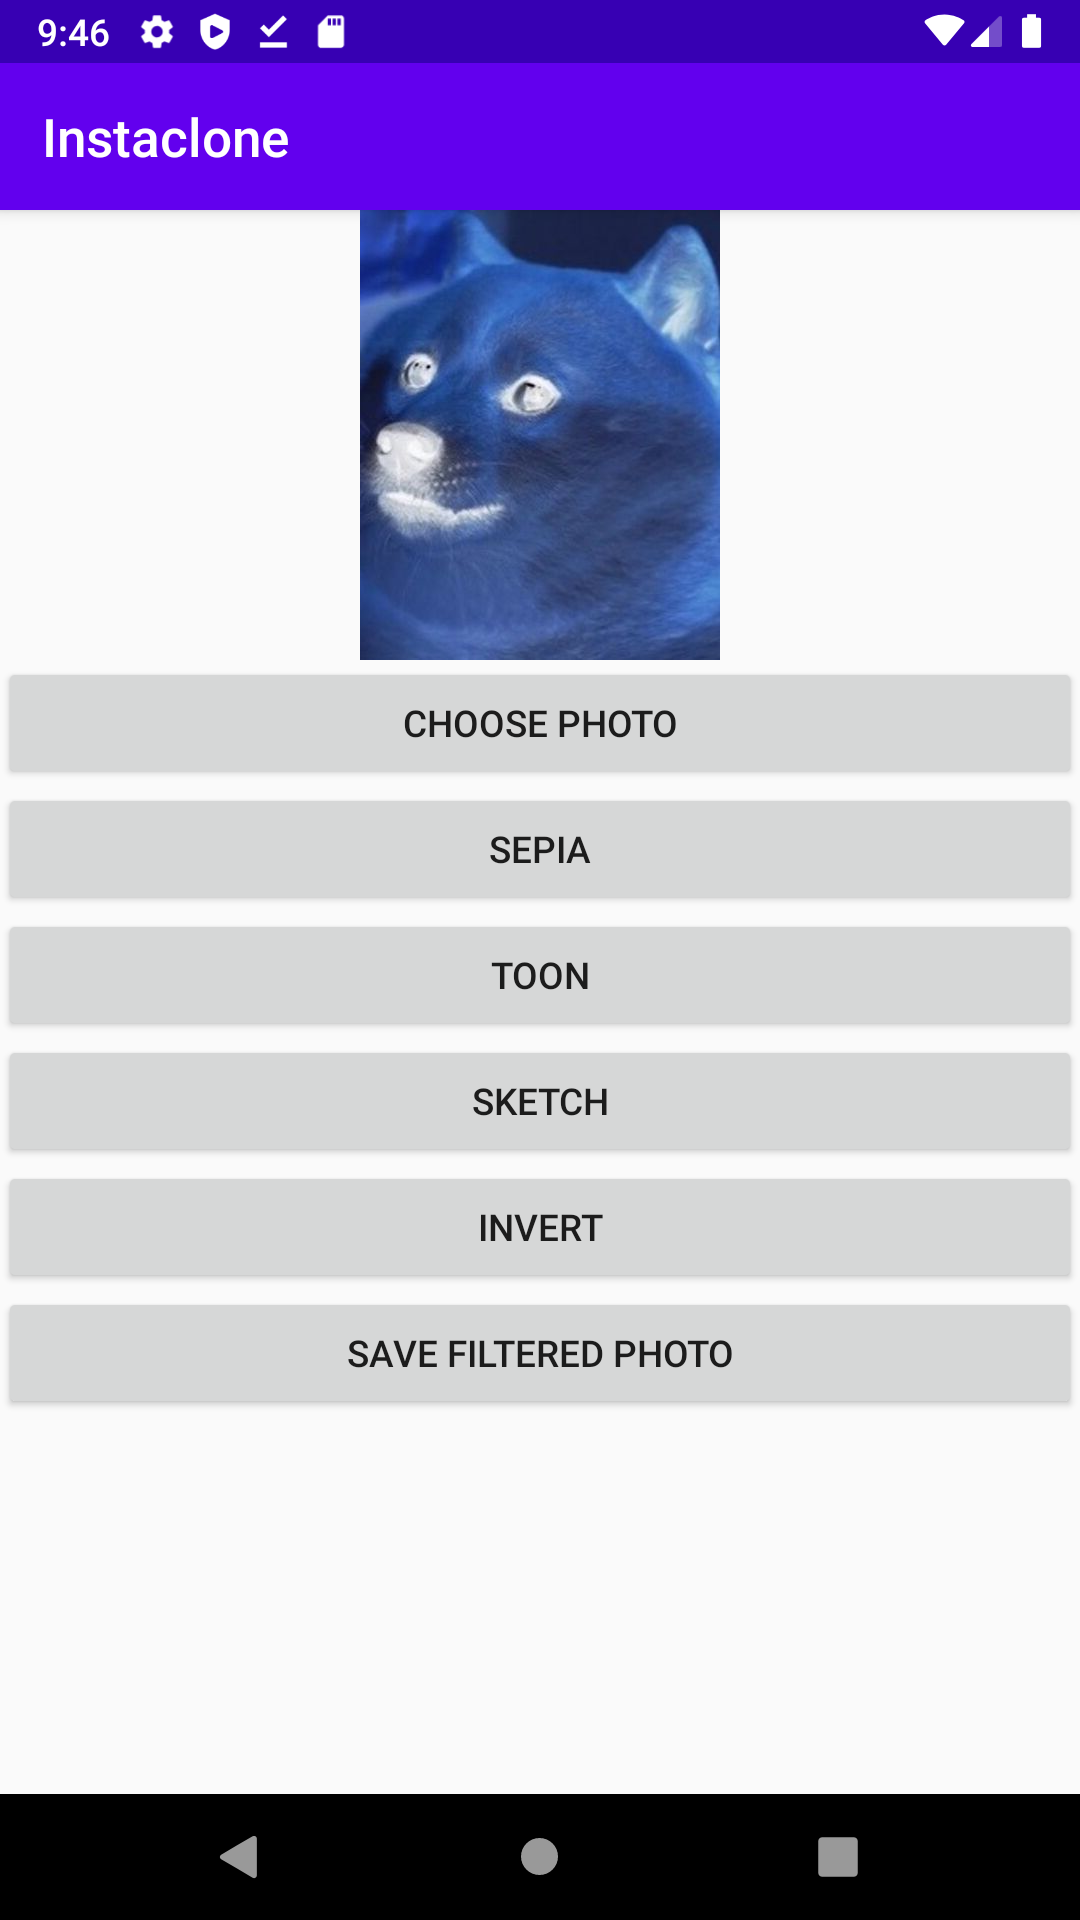
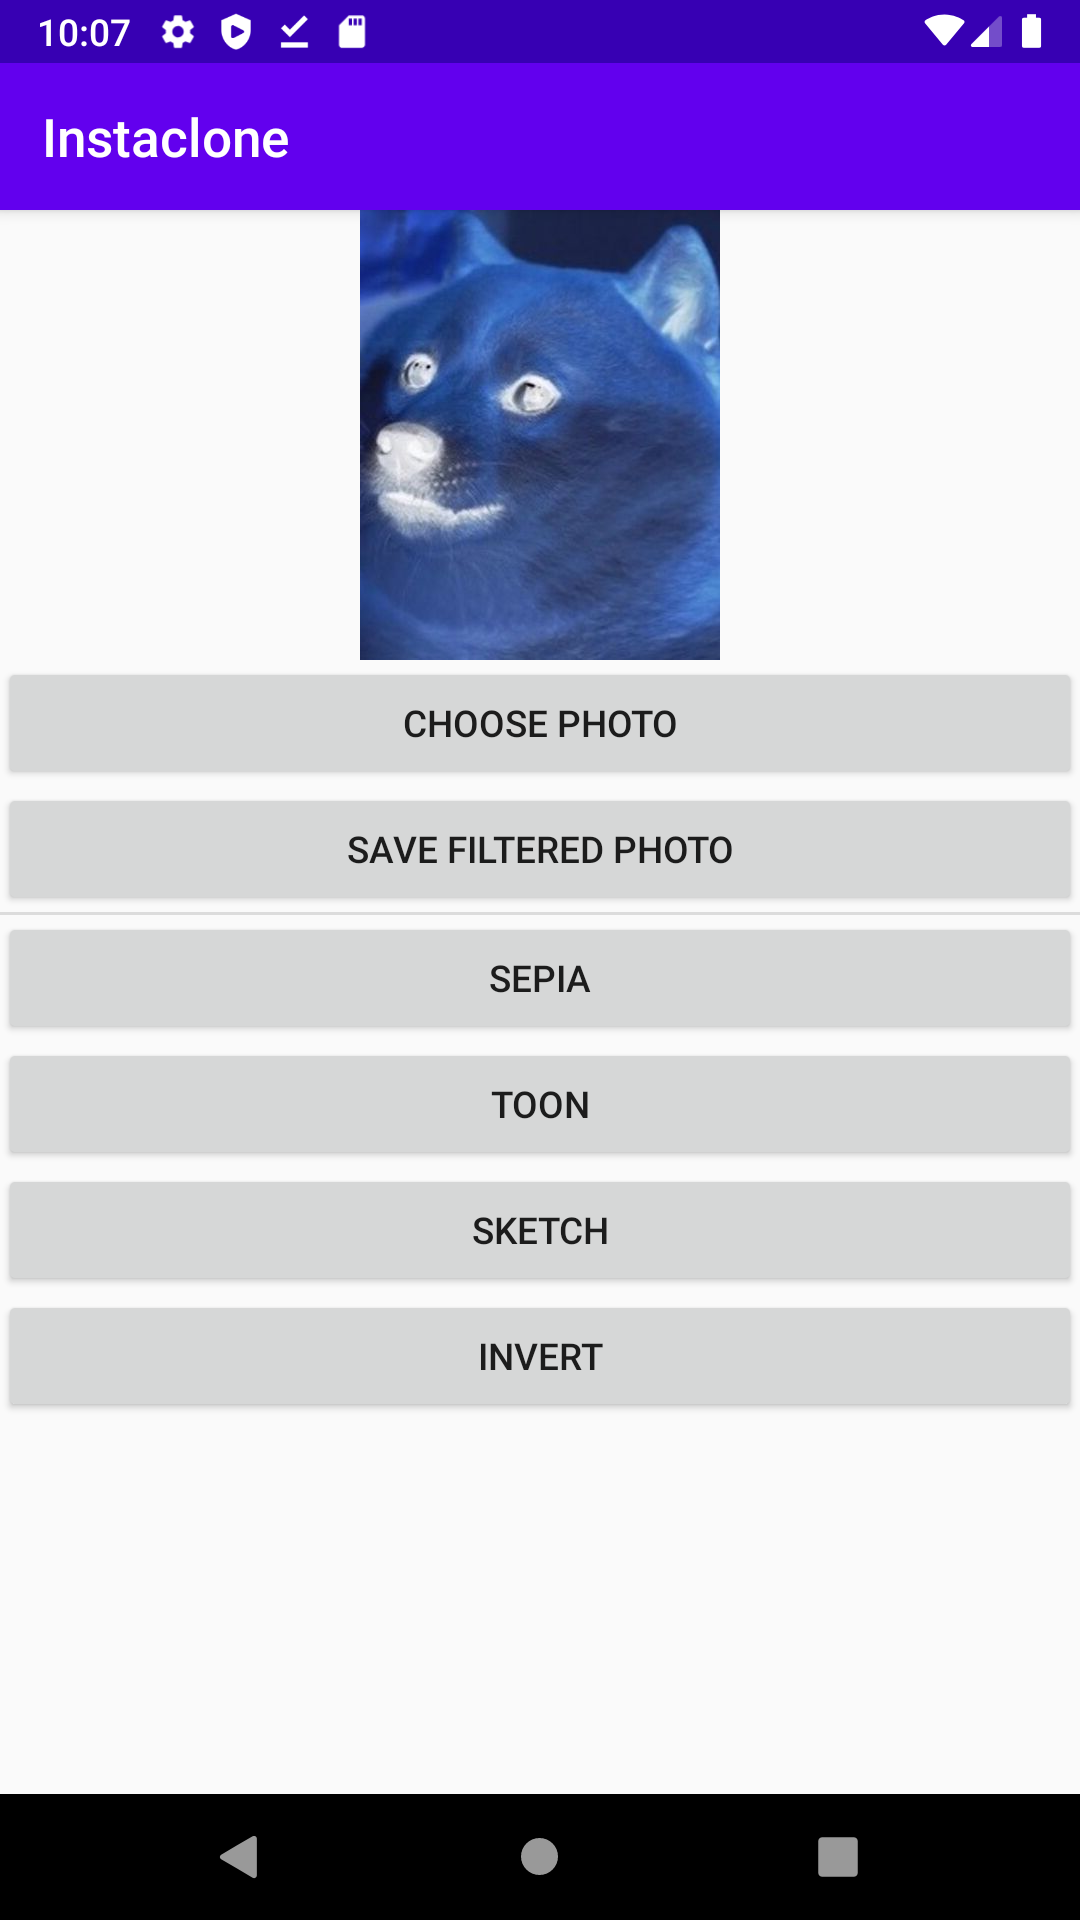
Change to group filter buttons

diff --git a/app/src/main/java/com/example/instaclone/MainActivity.java b/app/src/main/java/com/example/instaclone/MainActivity.java
@@ -1,9 +1,5 @@
 package com.example.instaclone;
 
-import androidx.annotation.Nullable;
-import androidx.appcompat.app.AppCompatActivity;
-import androidx.core.app.ActivityCompat;
-
 import android.Manifest;
 import android.app.Activity;
 import android.content.ContentValues;
@@ -11,7 +7,6 @@ import android.content.Intent;
 import android.graphics.Bitmap;
 import android.graphics.BitmapFactory;
 import android.graphics.drawable.BitmapDrawable;
-import android.media.Image;
 import android.net.Uri;
 import android.os.Bundle;
 import android.os.Environment;
@@ -21,15 +16,19 @@ import android.util.Log;
 import android.view.View;
 import android.widget.ImageView;
 
+import androidx.annotation.Nullable;
+import androidx.appcompat.app.AppCompatActivity;
+import androidx.core.app.ActivityCompat;
+
 import com.bumptech.glide.Glide;
 import com.bumptech.glide.load.Transformation;
 import com.bumptech.glide.request.RequestOptions;
 
 import java.io.File;
 import java.io.FileDescriptor;
-import java.io.FileNotFoundException;
 import java.io.FileOutputStream;
 import java.io.IOException;
+import java.util.Locale;
 
 import jp.wasabeef.glide.transformations.gpu.InvertFilterTransformation;
 import jp.wasabeef.glide.transformations.gpu.SepiaFilterTransformation;
@@ -60,6 +59,9 @@ public class MainActivity extends AppCompatActivity
      * Apply Glide filter to loaded image.
      */
     public void apply(Transformation<Bitmap> filter) {
+        if (image == null) {
+            return;
+        }
         Glide
                 .with(this)
                 .load(image)
@@ -89,15 +91,24 @@ public class MainActivity extends AppCompatActivity
     }
 
     public void saveImage(View view) {
+        if (image == null) {
+            return;
+        }
         Bitmap image = ((BitmapDrawable) imageView.getDrawable()).getBitmap();
         String root = Environment.getExternalStorageDirectory().toString();
         File outDir = new File(root + "/filtered_images");
         outDir.mkdirs();
         int fileNumber = 0;
-        File outFile = new File(outDir, String.format("%d_", fileNumber) + lastFilter + ".jpg");
+        File outFile = new File(outDir, String.format(
+                Locale.getDefault(),
+                "%d_",
+                fileNumber) + lastFilter + ".jpg");
         while (outFile.exists()) {
             fileNumber++;
-            outFile = new File(outDir, String.format("%d_", fileNumber) + lastFilter + ".jpg");
+            outFile = new File(outDir, String.format(
+                    Locale.getDefault(),
+                    "%d_",
+                    fileNumber) + lastFilter + ".jpg");
         }
         Log.d("Instaclone", "Outfile: " + outFile.getAbsolutePath());
         try {
